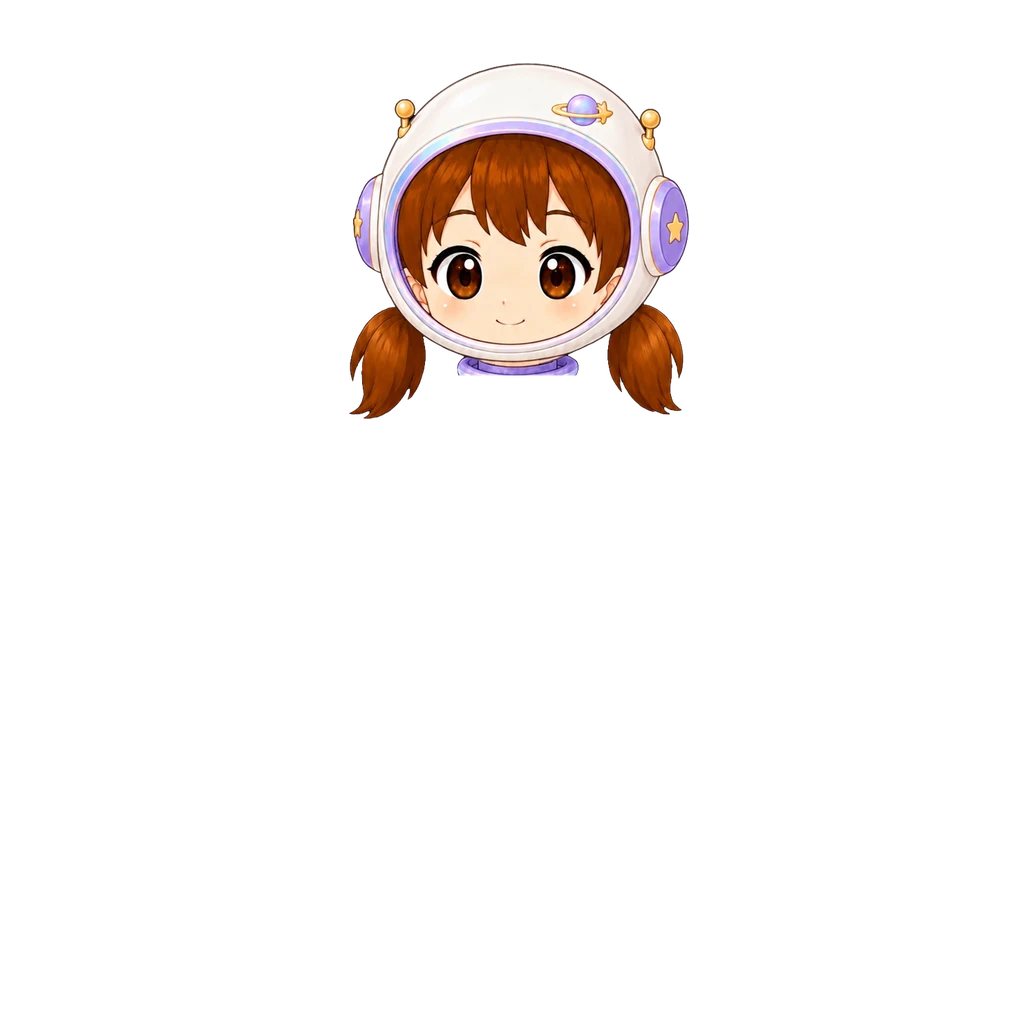
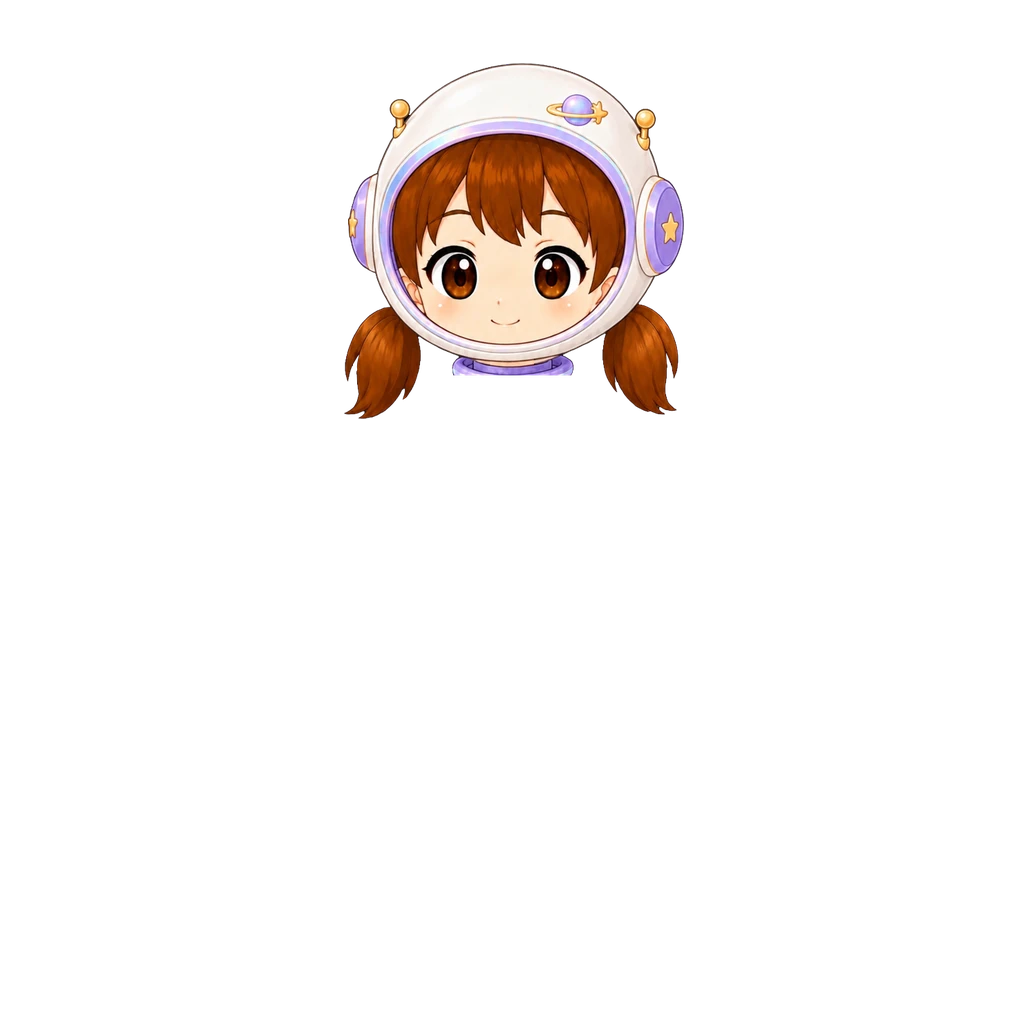
우주 헬멧(여아) 왼쪽으로 5 (#892)
원점 (349,63)→(344,63). img ?v=4.

Claude-Session: https://claude.ai/code/session_018maNuYqDfFyRSe9uKpZhPR

Changed region(s): [[0.3125, 0.0625, 0.6875, 0.4062], [0.4375, 0.0625, 0.5, 0.0938]]

diff --git a/src/data/avatarEquipment.js b/src/data/avatarEquipment.js
@@ -255,8 +255,9 @@ export const AVATAR_CATALOG = [
      들꽃 머리띠와 같은 방식(hidesHead) — 얼굴 템플릿 매칭(일치 0.881, 헬멧 유리 반사로 조금 낮음)으로 배율 0.692, 원점 (345,68).
      아래는 자르지 않음 — 보라 목깃이 목에 걸쳐 우주복 깃 위로 자연스럽게 이어진다. 탑재 상자 (345,68,685,424).
      [2026-10-04] 사용자 조정 — 위로 5(원점 (345,63)). 탑재 상자 (345,63,685,419). img ?v=2.
-     [2026-10-04] 오른쪽으로 4(원점 (349,63)). 탑재 상자 (349,63,689,419). img ?v=3. */
-  { id: "hat_helmet_girl", slot: "hat",  label: "우주 헬멧", emoji: "🧑🚀", price:DECOR_PRICE.epic, rarity: "epic", theme: "space", forGender: "girl", hidesHead: true, img: "assets/avatar/hat/space-helmet-girl.webp?v=3", thumb: "assets/avatar/thumb/hat_helmet_girl.webp" },
+     [2026-10-04] 오른쪽으로 4(원점 (349,63)). 탑재 상자 (349,63,689,419). img ?v=3.
+     [2026-10-04] 왼쪽으로 5(원점 (344,63)). 탑재 상자 (344,63,684,419). img ?v=4. */
+  { id: "hat_helmet_girl", slot: "hat",  label: "우주 헬멧", emoji: "🧑🚀", price:DECOR_PRICE.epic, rarity: "epic", theme: "space", forGender: "girl", hidesHead: true, img: "assets/avatar/hat/space-helmet-girl.webp?v=4", thumb: "assets/avatar/thumb/hat_helmet_girl.webp" },
   /* 남아 사파리 모자 [2026-10-02] — 모자+얼굴 한 장(사용자 원화)이라 hidesHead: 쓰면 머리카락 머리 장이 빠지고
      민머리 위에 얹힌다(베이스 v10 구조). 얼굴(눈~입) 템플릿 매칭으로 맞춤(배율 0.4065 · 일치 0.970).
      원화에 달린 목은 z50 이라 높은 깃(우주복·후드·도토리)을 덮어서 기본 머리 장처럼 y404 에서 잘랐다. */

diff --git a/art-src/README.md b/art-src/README.md
@@ -609,4 +609,4 @@ bbox로 여백만 잘라내고 배포본은 높이 480px로 축소했다(전부 
 | chef-hat-girl-src.webp | **요리사 모자 원화 여아 — 모자+얼굴 한 장 (사용자 원화 2026-10-04)** — 흰 요리사 모자(분홍 띠·크루아상 장식) + 얼굴·양갈래 머리. hidesHead 로 여아 기본 머리를 대신한다. 얼굴 템플릿 매칭(일치 0.924)으로 배율 0.660·원점 (348,28), 아래는 자르지 않음. 탑재 상자 (349,28,691,413). **[2026-10-04 조정]** 3% 크게(0.6798, 원점 (343,18)) · img ?v=2. 1% 더 크게(0.6866, 원점 (341,15)) · img ?v=3. 아래로 3(원점 (341,18)) · img ?v=4. 아래로 1 더(원점 (341,19)) · img ?v=5. 상점 그림은 원화를 세로 160px 로 | avatar/hat/chef-hat-girl.webp · thumb/hat_chef_girl.webp |
 | cloud-hat-girl-src.webp | **구름 모자 원화 여아 — 모자+얼굴 한 장 (사용자 원화 2026-10-04)** — 노란 벙거지(청록 띠·무지개 구름 장식) + 얼굴·양갈래 머리. hidesHead 로 여아 기본 머리를 대신한다. 얼굴 템플릿 매칭(일치 0.959)으로 배율 0.676·원점 (333,74), 아래는 자르지 않음. 탑재 상자 (333,74,695,415). **[2026-10-04 조정]** 3% 크게(0.6963, 원점 (328,66)) · img ?v=2. 아래로 2(원점 (328,68)) · img ?v=3. 상점 그림은 원화를 세로 160px 로 | avatar/hat/cloud-hat-girl.webp · thumb/hat_cloud_girl.webp |
 | wizard-hat-girl-src.webp | **마법사 모자 원화 여아 — 모자+얼굴 한 장 (사용자 원화 2026-10-04)** — 보라 마법사 모자(금 초승달·별 장식) + 얼굴·양갈래 머리. hidesHead 로 여아 기본 머리를 대신한다. 얼굴 템플릿 매칭(일치 0.943)으로 배율 0.696·원점 (295,20), 아래는 자르지 않음. 탑재 상자 (295,20,752,420). **[2026-10-04 조정]** 아래로 2·왼쪽 1(원점 (294,22)) · img ?v=2. 다시 아래로 2·왼쪽 1(원점 (293,24)) · img ?v=3. 상점 그림은 원화를 세로 160px 로 | avatar/hat/wizard-hat-girl.webp · thumb/hat_wizard_girl.webp |
-| space-helmet-girl-src.webp | **우주 헬멧 원화 여아 — 헬멧+얼굴 한 장 (사용자 원화 2026-10-04)** — 흰 우주 헬멧(보라 귀덮개·토성 장식·보라 목깃) + 얼굴·양갈래 머리. hidesHead 로 여아 기본 머리를 대신한다. 얼굴 템플릿 매칭(일치 0.881)으로 배율 0.692·원점 (345,68), 아래는 자르지 않음(목깃이 우주복 깃 위로 이어짐). 탑재 상자 (345,68,685,424). **[2026-10-04 조정]** 위로 5(원점 (345,63)) · img ?v=2. 오른쪽 4(원점 (349,63)) · img ?v=3. 상점 그림은 원화를 세로 160px 로 | avatar/hat/space-helmet-girl.webp · thumb/hat_helmet_girl.webp |
+| space-helmet-girl-src.webp | **우주 헬멧 원화 여아 — 헬멧+얼굴 한 장 (사용자 원화 2026-10-04)** — 흰 우주 헬멧(보라 귀덮개·토성 장식·보라 목깃) + 얼굴·양갈래 머리. hidesHead 로 여아 기본 머리를 대신한다. 얼굴 템플릿 매칭(일치 0.881)으로 배율 0.692·원점 (345,68), 아래는 자르지 않음(목깃이 우주복 깃 위로 이어짐). 탑재 상자 (345,68,685,424). **[2026-10-04 조정]** 위로 5(원점 (345,63)) · img ?v=2. 오른쪽 4(원점 (349,63)) · img ?v=3. 왼쪽 5(원점 (344,63)) · img ?v=4. 상점 그림은 원화를 세로 160px 로 | avatar/hat/space-helmet-girl.webp · thumb/hat_helmet_girl.webp |
